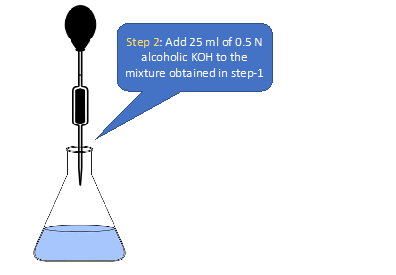
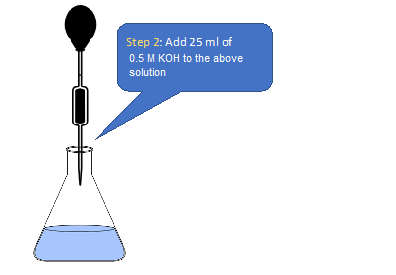
update experiment

Changed region(s): [[0.303, 0.1164, 0.6667, 0.2909]]

diff --git a/experiment/theory.md b/experiment/theory.md
@@ -1,3 +1,5 @@
-Saponification is a type of reaction in which ester molecules are broken to create carboxylic acid (-COOH) and alcohol (-OH), in presence of base (e.g. KOH, NaOH, etc.). Vegetable oils and animal fats are the triesters (also called triglycerides) as these have three ester groups derived from long chain fatty acids. These are the traditional materials for saponification and can be converted to soap in either a one- or a two-step process. In traditional one-step process, the triglyceride is treated with a strong base (e.g. KOH), which cleaves the ester bond; releasing fatty acid salts (soaps) and poly-alcohol (glycerol) 
+Saponification is a type of reaction in which ester molecules are broken to create carboxylic acids (-COOH) and alcohols (-OH), in presence of a base (e.g. KOH, NaOH, etc.). Vegetable oils and animal fats are triesters (also called triglycerides) as they have three ester groups derived from long chain fatty acids. These are the traditional materials for saponification and can be converted to soap in either a one- or a two-step process. In the traditional one-step process, the triglyceride is treated with a strong base (e.g. KOH), which cleaves the ester bond; releasing fatty acid salts (soaps) and poly-alcohol (glycerol) 
 <img src="images/img@1.png"><br>
-Saponification value is determined as the number of milligrams of KOH required to completely saponify one gram of the oil or fat. In this experiment we will take a known amount of the oil or fat and treat it with excess of a standard KOH solution. Then we will measure the amount of unreacted KOH by titrating the solution with a standard acid. An identical blank experiment will be performed where there is no fat or oil. 
+
+
+The saponification value is defined as the number of milligrams of KOH required to completely saponify one gram of the oil or fat. In this experiment we will take a known amount of oil and treat it with excess of a standard KOH solution. Then we will measure the amount of unreacted KOH by titrating the solution with a standard acid. An identical blank experiment will be performed where there is no oil. 

diff --git a/experiment/procedure.md b/experiment/procedure.md
@@ -7,10 +7,10 @@ Materials & Reagents Required:
 6)	Glass pipette (25 mL) 
 7)	Burette (50 mL)
 8)	Ethanol (95%) 
-9)	Potassium hydroxide [~0.5 N] in ethanol
-10)	Hydrochloric acid (standardized and adjusted to 0.5 N)
+9)	Potassium hydroxide [~0.5 M] in ethanol
+10)	Hydrochloric acid (standardized and adjusted to 0.5 M)
 11)	Phenolphthalein indicator<br><br>
-<b>Procedure in laboratory (diagram)</b><br>
+<b>Laboratory Procedure</b><br>
 <img src="images/img@2.png"><br>
 <img src="images/img@3.png"><br>
 <img src="images/img@4.png"><br>

diff --git a/experiment/aim.md b/experiment/aim.md
@@ -1,1 +1,1 @@
-To show how to determine the saponification value of oil using saponification reaction
+To determine the saponification value of oil
